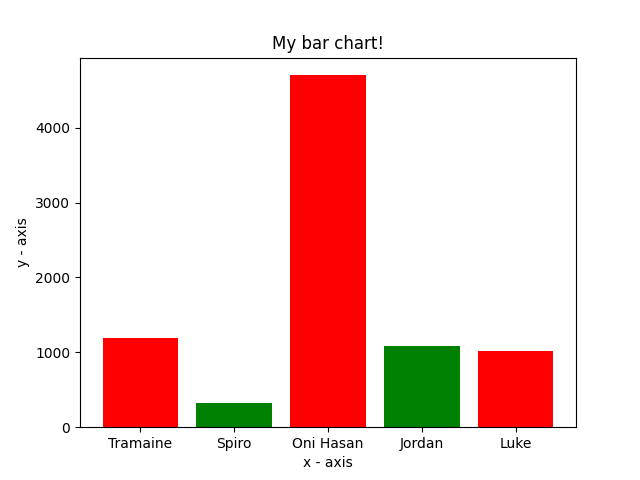
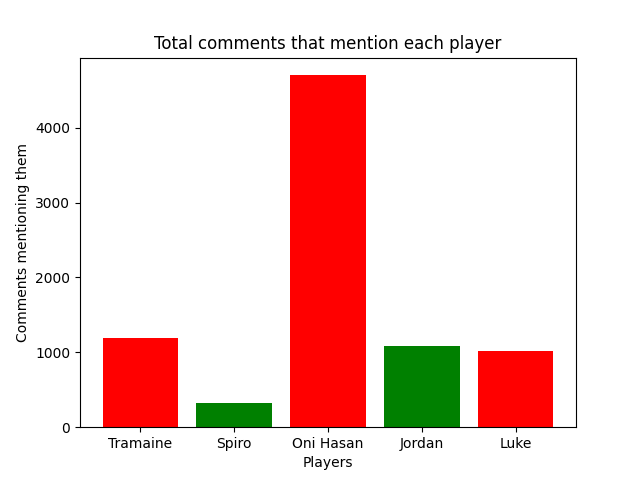
updated axis

Changed region(s): [[0.25, 0.0625, 0.7812, 0.125], [0.0312, 0.3125, 0.0625, 0.7188], [0.4688, 0.9375, 0.5625, 1.0]]

diff --git a/bar_chart.py b/bar_chart.py
@@ -24,9 +24,9 @@ plt.bar(width, totals, tick_label = tick_label,
         width = 0.8, color = ['red', 'green'])
   
 # naming the x-axis
-plt.xlabel('x - axis')
+plt.xlabel('Players')
 # naming the y-axis
-plt.ylabel('y - axis')
+plt.ylabel('Comments mentioning them')
 # plot title
 plt.title('Total comments that mention each player')
   
